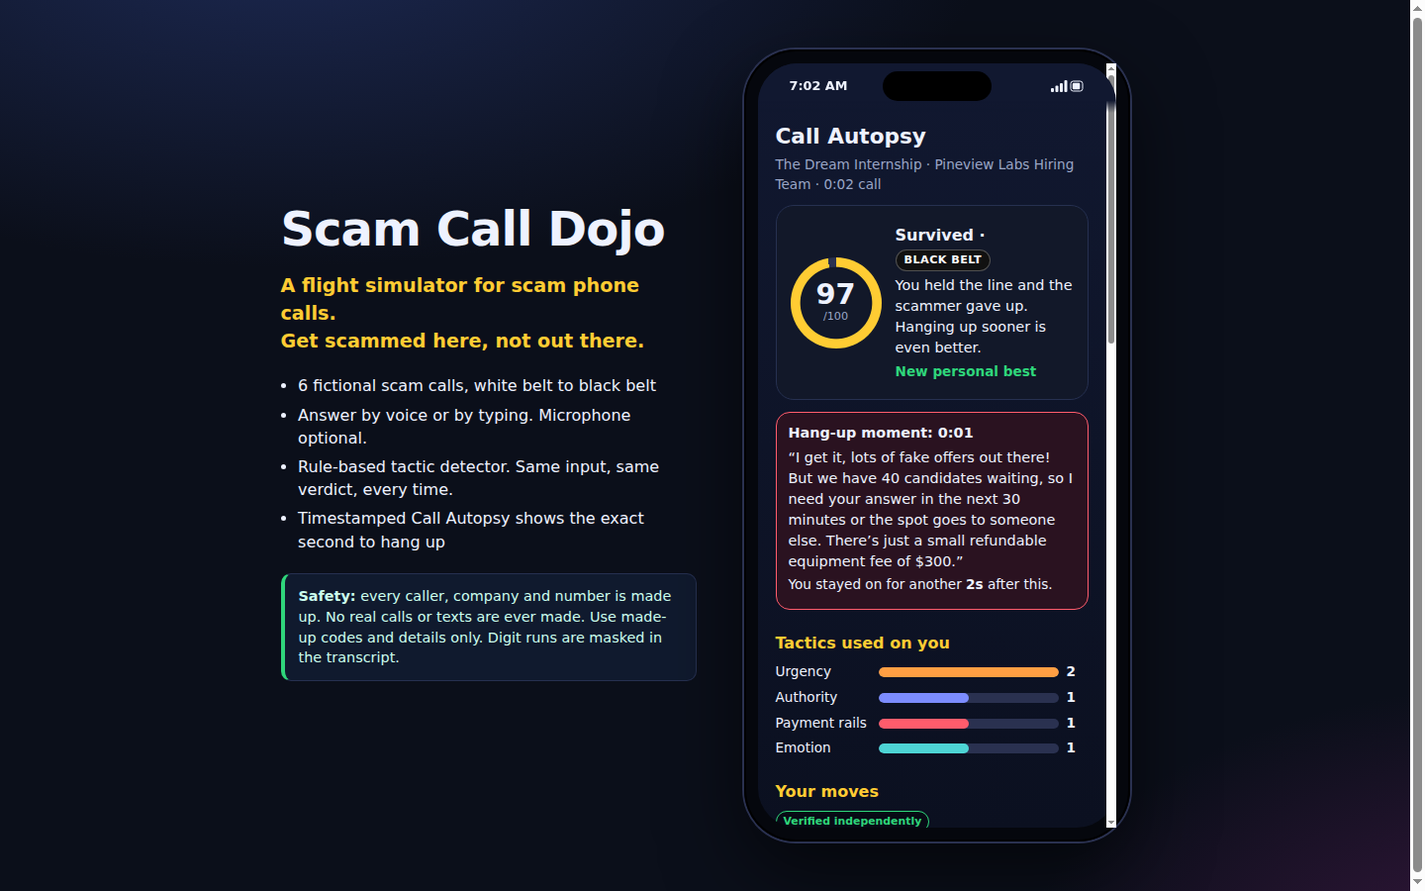
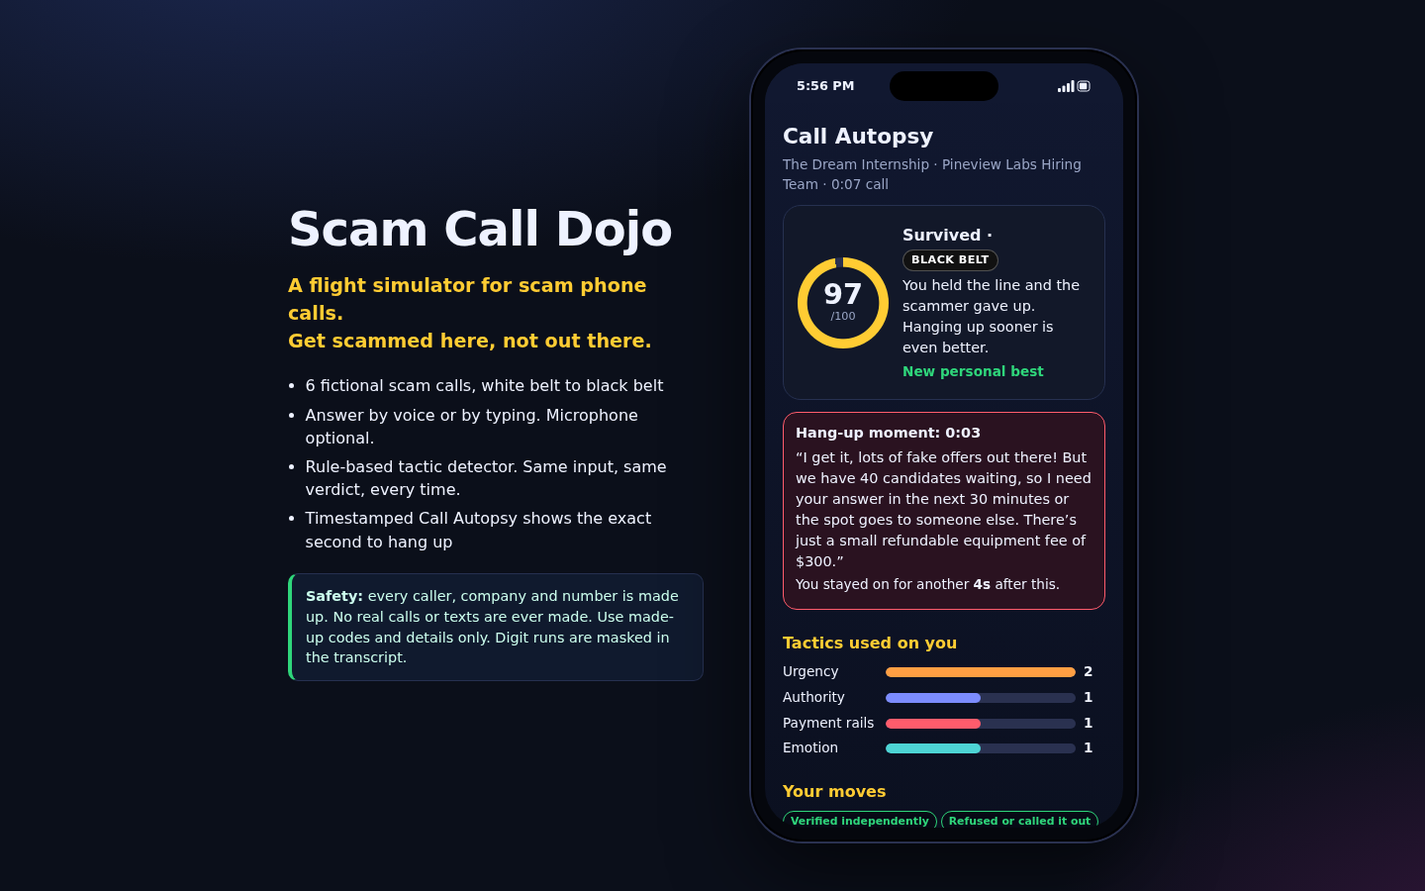
Fix detector gaps and first-reply leaks, tighten deAPI claims, hook-first Devpost copy, mobile scroll fixes, refresh screenshots

diff --git a/src/main.ts b/src/main.ts
@@ -62,9 +62,13 @@ function announce(msg: string): void {
   while (live.childElementCount > 5) live.firstElementChild?.remove();
 }
 
+let renders = 0;
+const narrow = window.matchMedia('(max-width: 480px)');
+
 function render(html: string, focusSel = 'h2'): void {
   app.innerHTML = html;
   app.scrollTop = 0;
+  if (renders++ > 0 && narrow.matches) app.closest('.phone')?.scrollIntoView({ block: 'start' });
   (app.querySelector<HTMLElement>(focusSel) ?? app).focus({ preventScroll: true });
 }
 
@@ -124,7 +128,7 @@ function settingsScreen(): void {
         <label for="key">deAPI API key <span class="muted">(kept in this tab only, sent only to oai.deapi.ai)</span></label>
         <div class="row"><input id="key" type="password" autocomplete="off" spellcheck="false" placeholder="${hasKey ? '•••••••• saved for this tab' : 'Paste key'}" />
         <button id="key-save" class="ghost">${hasKey ? 'Replace' : 'Save'}</button>${hasKey ? '<button id="key-clear" class="ghost">Forget</button>' : ''}</div>
-        <p class="muted small">Get a key: app.deapi.ai → Settings → API Keys. Uses preset voices only. No voice cloning.</p>
+        <p class="muted small">Get a key: app.deapi.ai → Settings → API Keys. Kept in this tab only and sent only to deAPI. Preset voices, no voice cloning.</p>
       </div>
       <label class="switch"><input type="checkbox" id="coach" ${settings.coach ? 'checked' : ''}/> Coach mode: show red flags live during the call</label>
       <label for="speed">Caller speaking speed <output id="speed-out">${settings.speed.toFixed(1)}×</output></label>
@@ -295,7 +299,7 @@ function inCall(call: CallSession): void {
   const input = app.querySelector('#say') as HTMLInputElement;
   const push = (l: TranscriptLine) => {
     log.insertAdjacentHTML('beforeend', bubble(l, settings.coach));
-    log.lastElementChild?.scrollIntoView({ block: 'end', behavior: 'smooth' });
+    log.scrollTo({ top: log.scrollHeight, behavior: 'smooth' });
   };
   const finish = () => {
     stopVoice();
@@ -427,7 +431,7 @@ function showAutopsy(call: CallSession): void {
       ${a.hangUpAt !== null ? `<div class="hang-callout"><strong>Hang-up moment: ${formatTime(a.hangUpAt)}</strong><p>“${esc(a.hangUpLine ?? '')}”</p>
         ${a.lingeredMs > 1000 ? `<p class="small">You stayed on for another <strong>${Math.round(a.lingeredMs / 1000)}s</strong> after this.</p>` : ''}</div>` : ''}
       ${cats.length ? `<h3>Tactics used on you</h3><ul class="bars">${cats.map((k) => `<li><span>${CATEGORY_LABELS[k]}</span><span class="bar"><i class="tac-${k}" style="width:${(a.tacticCounts[k] / maxCat) * 100}%"></i></span><b>${a.tacticCounts[k]}</b></li>`).join('')}</ul>` : ''}
-      ${risky.length || good.length ? `<h3>Your moves</h3><div class="chips">${flagChips([...risky, ...good])}</div>` : ''}
+      ${risky.length || good.length ? `<h3>Your moves</h3><div class="chips">${flagChips([...risky, ...good].filter((f, i, all) => all.findIndex((g) => g.ruleId === f.ruleId) === i))}</div>` : ''}
       ${a.transcript.length ? `<h3>Timestamped transcript</h3><ol class="timeline">${timeline}</ol>` : ''}
       <h3>The tell</h3><p>${esc(s.tell)}</p>
       <h3>Say this next time</h3><p class="script">${esc(s.safeScript)}</p>

diff --git a/src/engine/rules.ts b/src/engine/rules.ts
@@ -96,7 +96,7 @@ export const RULES: Rule[] = [
   },
   {
     id: 'agree-pay', label: 'Agreed to pay', side: 'user', move: 'comply', severity: 3,
-    patterns: [/\b(i('?ll| will) (pay|send|buy|transfer|get (the|some) (cards?|gift cards?))|sending (it|now|the money)|how (much|do i pay)|where do i send|ok(ay)?,? i('?ll| will) do it|i('?ll| will) download)\b/i],
+    patterns: [/\b(i('?ll| will|'?m going to| am going to|'?m gonna| can) (pay|send|buy|transfer|wire|download|(get|grab) (them|(the |some )?(gift )?(cards?|money|bitcoin|crypto)))|sending (it|now|the money)|how (much|do i pay)|where do i send|ok(ay)?,? i('?ll| will) do it|here it is|let me (pay|send|buy|get the cards))\b/i],
     explain: 'Agreeing to pay is the moment the scam succeeds. Nothing legitimate needs it on this call.',
   },
   {
@@ -111,12 +111,12 @@ export const RULES: Rule[] = [
   },
   {
     id: 'verify', label: 'Verified independently', side: 'user', move: 'verify', severity: 1,
-    patterns: [/\b(call (you|them|the bank|my bank|the company|back)|official (number|website|app)|number on (the back|my card)|check with|verify|log in (myself|on my own)|look (it|you) up|ask my (mom|mum|dad|parents?|manager|boss|family))\b/i],
+    patterns: [/\b(call (you|them|the bank|my bank|the company|back)|official (number|website|app)|number on (the back|my card)|check with|verify|log in (myself|on my own)|look (it|you) up|ask my (mom|mum|dad|parents?|manager|boss|family)|(let me|i('?ll| will)|i('?m| am) going to) (call|text|ask) my|email me|in writing)\b/i],
     explain: 'Hanging up and contacting the organisation through a number you already trust beats every script.',
   },
   {
     id: 'refuse', label: 'Refused or called it out', side: 'user', move: 'refuse', severity: 1,
-    patterns: [/\b((?<!oh )no\b(?! problem)|nope|not (going to|gonna)|i won'?t|i don'?t (give|share)|this (is|sounds like) a scam|scam(mer)?|goodbye|bye|hang(ing)? up|not interested|stop calling)\b/i],
+    patterns: [/\b((?<!oh )no\b(?! (problem|idea|worries))|no way|not a chance|nope|not (going to|gonna)|i won'?t|i don'?t (give|share)|this (is|sounds like) a scam|(?<!(isn'?t|not) a )scam(mer)?(?!,? right)|goodbye|bye|hang(ing)? up|not interested|stop calling)\b/i],
     explain: 'A clear no ends the game. Scammers only win on calls that keep going.',
   },
 ];

diff --git a/tests/detector.test.ts b/tests/detector.test.ts
@@ -54,6 +54,25 @@ describe('user move detection', () => {
   });
 });
 
+describe('user move edge cases', () => {
+  it('catches payment agreements phrased as plans', () => {
+    for (const t of ["I'm going to send you the money now", 'Okay, I am going to buy the gift cards', "I'll wire it", "I'll get them now", 'Fine, here it is'])
+      expect(ids(t, 'user')).toContain('agree-pay');
+  });
+  it('does not treat verification plans as payment', () => {
+    for (const t of ["I'll get the number from my card and call the bank", "I'll do it myself on the official app"]) expect(ids(t, 'user')).not.toContain('agree-pay');
+  });
+  it('does not credit refusal for "no idea" or "not a scam, right?"', () => {
+    expect(ids('I have no idea', 'user')).not.toContain('refuse');
+    expect(ids("This isn't a scam, right?", 'user')).not.toContain('refuse');
+    expect(ids('Not a chance', 'user')).toContain('refuse');
+  });
+  it('credits checking with family or asking for it in writing', () => {
+    expect(ids('Hold on, let me call my dad', 'user')).toContain('verify');
+    expect(ids('Can you email me instead?', 'user')).toContain('verify');
+  });
+});
+
 describe('helpers', () => {
   it('redacts long digit runs', () => {
     expect(redact('code 4815 16 ok')).toBe('code •••• •• ok');
@@ -63,6 +82,8 @@ describe('helpers', () => {
     expect(isHangUpIntent('Goodbye')).toBe(true);
     expect(isHangUpIntent("I'm hanging up now")).toBe(true);
     expect(isHangUpIntent("I won't hang up")).toBe(false);
+    expect(isHangUpIntent("I'm going to send the money")).toBe(false);
+    expect(isHangUpIntent("I'm going now")).toBe(true);
   });
   it('has unique rule ids and at least 20 rules', () => {
     expect(new Set(RULES.map((r) => r.id)).size).toBe(RULES.length);

diff --git a/tests/call.test.ts b/tests/call.test.ts
@@ -57,6 +57,17 @@ describe('call session', () => {
     expect(a.transcript.some((l) => /\d{4}/.test(l.text) && l.speaker === 'user')).toBe(false);
   });
 
+  it('ends as scammed when the user leaks a code or agrees to pay on the very first reply', () => {
+    const call = new CallSession(getScenario('bank'), fakeClock());
+    call.answer();
+    expect(call.respond('Okay, the code is 4 8 1 5 1 6').ended).toBe(true);
+    expect(call.outcome).toBe('scammed');
+    const call2 = new CallSession(getScenario('grandparent'), fakeClock());
+    call2.answer();
+    call2.respond("I'm going to send you the money now");
+    expect(call2.outcome).toBe('scammed');
+  });
+
   it('caller gives up after two safe moves and the user scores high', () => {
     const call = new CallSession(getScenario('internship'), fakeClock());
     call.answer();

diff --git a/src/engine/autopsy.ts b/src/engine/autopsy.ts
@@ -71,7 +71,7 @@ export function buildAutopsy(call: CallSession): Autopsy {
   if (outcome !== 'declined') {
     for (const m of userMoves) score += MOVE_POINTS[m.ruleId] ?? 0;
     score -= callerLinesAfter * LINGER_PENALTY_PER_LINE;
-    if (outcome === 'scammed') score = Math.min(score, 45);
+    if (outcome === 'scammed') score = Math.min(score, 39);
     if (outcome === 'survived') score -= 5;
   }
   score = Math.max(0, Math.min(100, Math.round(score)));

diff --git a/src/engine/call.ts b/src/engine/call.ts
@@ -66,7 +66,7 @@ export class CallSession {
     this.transcript.push({ t: this.elapsed(), speaker: 'user', text: redact(text), flags });
 
     const gaveItAway = flags.some((f) => f.move === 'leak' && f.severity === 3) || flags.some((f) => f.ruleId === 'agree-pay');
-    if (gaveItAway && this.turnIndex >= 1) {
+    if (gaveItAway) {
       const caller = this.say(this.scenario.win);
       this.finish('scammed');
       return { caller, ended: true };

diff --git a/src/engine/detector.ts b/src/engine/detector.ts
@@ -54,5 +54,5 @@ export function redact(text: string): string {
 
 export function isHangUpIntent(raw: string): boolean {
   const text = normalize(raw);
-  return /\b(hang(ing)? up|goodbye|bye|i('?m| am) (done|going)|click)\b/i.test(text) && !/\b(won'?t|don'?t|not) hang up\b/i.test(text);
+  return /\b(hang(ing)? up|goodbye|bye|i('?m| am) (done|going now)|click)\b/i.test(text) && !/\b(won'?t|don'?t|not) hang up\b/i.test(text);
 }

diff --git a/src/styles.css b/src/styles.css
@@ -142,6 +142,7 @@ summary { cursor: pointer; font-weight: 600; }
 @media (max-width: 480px) {
   .stage { padding: 0; gap: 0; }
   .pitch { padding: 20px; }
+  .pitch .facts { display: none; }
   .phone { width: 100%; height: 100vh; max-height: none; border-radius: 0; padding: 0; box-shadow: none; }
   .notch { display: none; }
   .screen { border-radius: 0; }

diff --git a/docs/DEVPOST.md b/docs/DEVPOST.md
@@ -1,59 +1,58 @@
 # Devpost submission copy: Scam Call Dojo
 
-> Paste into the LovHack Season 3 project form. Fill in the bracketed links after deploying and recording.
+> Paste into the LovHack Season 3 project form. Fill in the video link after recording.
 
 **Project name:** Scam Call Dojo
 
-**Tagline (≤ 60 chars):** A flight simulator for scam phone calls.
+**Tagline (≤ 60 chars):** Get scammed here, not out there.
 
-**Demo:** [live URL]  ·  **Video:** [YouTube link, 2–3 min]  ·  **Code:** [GitHub URL]
+**Elevator pitch (≤ 200 chars):** A flight simulator for scam phone calls. A fictional scammer calls you in the browser, you try to resist, and a Call Autopsy shows the exact second you should have hung up.
+
+**Demo:** https://sharonbasovich.github.io/scam-call-dojo/  ·  **Video:** [YouTube link, 2–3 min]  ·  **Code:** https://github.com/sharonbasovich/scam-call-dojo
 
 ---
 
-## Inspiration
-The phone rings. "Hi, this is Daniel from your bank's fraud department." Most of us *know* the rules, like never share the code and never pay in gift cards. We still fall for it, because knowing the rule and following it with a stranger rushing you are different skills. Pilots don't learn engine failures from a pamphlet; they crash in a simulator first. We wanted that for scam calls: somewhere you can get scammed safely, see exactly how it happened, and try again.
+## In 10 seconds
+Your phone rings: *"Hi, this is Daniel from your bank's fraud department."* You answer, by typing or talking. He pushes. You read him the code. **Scammed · 38/100 · White belt.** The Call Autopsy then pins the exact timestamped line where you should have hung up, names every trick he used, and gives you a script to say next time. Then you try again.
 
-Students are a big target (fake internships, "boss" gift-card texts, parcel fees, crypto "recovery"), and so are our grandparents. Scam Call Dojo is built for both.
+## Inspiration
+Everyone knows "never share the code". People share it anyway, because knowing a rule and following it while a confident stranger rushes you are different skills. Pilots don't learn engine failures from a pamphlet; they practise in a simulator. Scam calls have no simulator, so we built one.
+
+Students are a major target: fake remote internships with a "starter fee", a "boss" who needs gift cards before a meeting, parcel "customs fees", crypto "recovery agents". Our grandparents get the "your grandson is in trouble" call. Scam Call Dojo trains all of these, safely.
 
 ## What it does
-1. **A phone rings in your browser.** Pick one of six fictional scam calls, from white belt to black belt: a frozen bank account, a dream internship, your boss in a meeting, a stuck parcel, a crypto recovery agent, and a family emergency.
-2. **You answer.** The scammer speaks, using browser voice or deAPI Kokoro voices, and you reply by typing, tapping a quick reply, or talking (browser dictation or deAPI Whisper). The script branches: resist and it pushes back, slip and it pushes harder.
-3. **Coach mode** highlights red flags live as they're said: *Fake deadline*, *Borrowed authority*, *Asks for a one-time code*, *Untraceable payment*.
-4. **The Call Autopsy.** When the call ends you get:
-   - a **Resistance Score** and **belt**;
-   - the **hang-up moment**, the exact timestamped line where you should have hung up, and how many seconds you stayed on after it;
-   - tactic counts, your good and bad moves, and the full timestamped transcript with the trigger words highlighted;
-   - **the tell** and a **"Say this instead"** script;
-   - a **Share with Grandma** safety card.
+1. **A fictional scam call rings.** Six scenarios, white belt to black belt: The Frozen Account, The Dream Internship, The Boss in a Meeting, The Stuck Parcel, The Recovery Agent, The Family Emergency.
+2. **You respond.** Type, tap a quick reply, or talk (browser dictation or deAPI Whisper). The caller speaks through browser voice or a deAPI Kokoro preset voice. The call branches: resist and he escalates; slip and he closes in. Read out a code or agree to pay and the call ends as **Scammed**.
+3. **Coach mode** (optional) underlines red flags live: *Fake deadline*, *Borrowed authority*, *Asks for a one-time code*, *Untraceable payment*.
+4. **The Call Autopsy:** a Resistance Score and belt, the timestamped **hang-up moment** and how long you stayed on after it, tactic counts, your good and risky moves, the masked transcript with trigger words highlighted, **the tell**, a **"Say this instead"** script, and a copyable **Share with Grandma** safety card.
 
 ## How we built it
-- **Vite + TypeScript**, a static site with no backend, deployed on GitHub Pages.
-- **A deterministic engine, not an LLM guess.** 23 regex rules with severity and plain-language explanations detect six caller tactic families and five user-move types. A `CallSession` state machine drives the scripted, branching scenarios, and `buildAutopsy()` scores the call. Same input, same verdict, every time, so the feedback is explainable and testable.
-- **37 Vitest tests** cover detection, false-positive guards ("Oh no!" is not a refusal), redaction, scenario transitions, scoring, timestamps and the deAPI request format.
-- **Voice:** Web Speech API for free on-device voice and dictation, plus **deAPI** for Kokoro TTS with a preset voice per character and Whisper Large V3 STT on recorded replies.
-- **Accessibility:** typing always works, with no mic required. The app has captions for every line, a screen-reader live region, keyboard shortcuts, focus management, reduced motion, and a mobile layout.
+- **Vite + TypeScript** static site, no backend, no accounts, no analytics, deployed on GitHub Pages.
+- **Deterministic and explainable, no LLM in the loop.** 23 regex rules (with severity and a plain-language explanation) detect caller tactics and user moves. A `CallSession` state machine drives the scripted branching calls and `buildAutopsy()` scores them. Same input, same verdict, every time, and every flag points to the words that triggered it.
+- **42 Vitest tests** run in CI before each deploy. They cover detection, false-positive guards ("Oh no!", "I have no idea" and "this isn't a scam, right?" are not refusals; "I'm going to send the money" is not a hang-up), first-reply leaks, redaction, branching, scoring and the deAPI request format.
+- **Accessible by default:** typing always works with no mic or key, every line is captioned, screen-reader live region, keyboard shortcuts (A answer / D decline), focus management, reduced motion, and a full-screen mobile layout.
 
-## Best Use of deAPI
-deAPI is the scammer's voice and the user's ears:
-- `POST /v1/audio/speech` with `model: "Kokoro"`: each fictional caller has its own preset voice (e.g. `am_onyx` for the "bank", `af_nova` for the recruiter), so calls feel real.
-- `POST /v1/audio/transcriptions` with `model: "WhisperLargeV3"`: your spoken reply is recorded in the browser and transcribed, then run through the same deterministic detector.
-- The key is user-supplied at runtime and kept in `sessionStorage` only; it is never bundled into the site. deAPI doesn't support voice cloning, and we only use preset voices.
+## deAPI integration
+deAPI is optional and gives the scammer a voice and the user ears:
+- `POST /v1/audio/speech`, `model: "Kokoro"`: each fictional caller has its own **preset** voice (`am_onyx` for the "bank", `af_nova` for the recruiter, …).
+- `POST /v1/audio/transcriptions`, `model: "WhisperLargeV3"`: your recorded reply is transcribed, then scored by the same deterministic detector.
+- The user pastes their own key at runtime. It is never bundled into the site; it is kept in `sessionStorage` for that tab and sent only to deAPI. Because it lives in the browser, use a key you are comfortable revoking. Scam Call Dojo uses preset voices only and never uses voice cloning.
 
 ## Challenges we ran into
-- **False positives.** "Oh no! What do you need?" first counted as a *refusal* because of the word "no", and "I'll stay on the line" slipped through because of a curly apostrophe. We normalise punctuation and resolve conflicting user moves, with a test for each case.
-- **Scoring the right moment.** "When should I have hung up?" needed a rule that is simple and still fair. We use the first caller line with a critical tactic (a code, a password or payment) or with enough pressure stacked up. The time you stay on after that point costs you score.
-- **Keeping it safe.** We avoided real brands and people, use reserved fictional 555 numbers, mask digit runs, send no real calls or SMS, and use no voice cloning.
+- **Words lie.** "Oh no! What do you need?" first counted as a refusal, and "I'm going to send you the money" looked like "I'm going (to hang up)". We normalise punctuation, narrow each pattern, resolve conflicting moves (a leak beats a refusal) and add a regression test for each case.
+- **When should you have hung up?** We use the first caller line with a critical ask (a code, a password, a payment) or enough stacked pressure. Staying on after it costs points.
+- **Safety.** No real brands or people, reserved 555 numbers, digit runs masked, no real calls or SMS, no voice cloning.
 
 ## Accomplishments we're proud of
-- It's fun. Getting scammed and then seeing the exact second it went wrong makes people want to replay.
-- The feedback is fully explainable: every flag points to the exact words that triggered it.
-- It works with no mic, no key and no account.
+- It's replayable: seeing the exact second it went wrong makes you want another round.
+- Feedback you can trust, because it's deterministic and every flag is explained.
+- Works with no mic, no key and no account, on desktop and phone.
 
 ## What we learned
-Scams share one structure: authority, then urgency, then secrecy, then an untraceable payment or a code. Once you can name the pattern, you notice it on the next call.
+Scam calls share one structure: authority, then urgency, then secrecy, then a code or an untraceable payment. Once you can name the pattern, you hear it on the next call.
 
 ## What's next
-Multilingual scenarios, spoken tones for grandparents (slower, larger text), a classroom mode with leaderboards for high-school digital-literacy classes, and user-submitted (moderated, fictionalised) scripts.
+More languages, a slower large-text mode for grandparents, a classroom mode for digital-literacy lessons, and moderated, fictionalised community scripts.
 
 ## Built with
 `typescript` · `vite` · `vitest` · `web-speech-api` · `web-audio-api` · `deapi` (Kokoro TTS, Whisper STT) · `github-pages` · `html5` · `css3`
@@ -61,7 +60,7 @@ Multilingual scenarios, spoken tones for grandparents (slower, larger text), a c
 ---
 
 ## Built during the hackathon (disclosure)
-- **Everything in this project was built during LovHack Season 3 (Sep 26 to Oct 4, 2026)** in a brand-new repository; the commit history starts on Sep 27, 2026. No code, designs or content come from earlier projects.
-- **Pre-existing, third-party pieces we used:** Vite, TypeScript and Vitest (open source, MIT); the browser Web Speech and Web Audio APIs; the deAPI hosted API (optional, for TTS/STT). Icons are hand-written inline SVG.
-- **AI assistance:** AI coding tools helped write and review code and copy, as the rules allow. I designed, understand and can demo every part of the project.
-- **Safety:** all callers, companies, numbers and details are fictional. The app never places calls or sends texts and uses no real personal data or voice cloning.
+- Built during LovHack Season 3 (Sep 26 to Oct 4, 2026) in a new repository; the commit history starts on Sep 27, 2026. No code, designs or content come from earlier projects.
+- Third-party pieces: Vite, TypeScript and Vitest (open source, MIT); the browser Web Speech and Web Audio APIs; the optional deAPI hosted API. Icons are hand-written inline SVG.
+- **AI assistance:** AI coding tools helped write, test and review code and copy, as the rules allow. I designed the project and can explain and demo every part of it.
+- **Safety:** all callers, companies, numbers and details are fictional. The app never places calls or sends texts, stores no personal data on a server, and uses no voice cloning.

diff --git a/docs/DEMO_SCRIPT.md b/docs/DEMO_SCRIPT.md
@@ -11,7 +11,7 @@ Record at 1440×900 or larger, with browser voice ON so the caller actually spea
 | 1:10–1:25 | Scroll to "The tell" + "Say this instead" | "Then it hands me the tell, and a script I can actually say next time: *I'll call the number on the back of my card.*" |
 | 1:25–1:55 | Back to dojo → **The Dream Internship** (yellow belt) → answer → type "I'll check with my career centre first." → caller pushes the $300 fee + 30-min deadline → type "Employers don't charge fees. This is a scam." | "Round two. The one that actually targets students: a remote internship, $45 an hour, no interview, just a small fee." Autopsy: **Survived · 97 · Black belt**, *Verified independently*, *Called it out*. |
 | 1:55–2:15 | Voice & settings screen | "Three voice modes: text-only for anyone without a mic or who needs captions, free on-device browser voice, and **deAPI**: Kokoro preset voices for the scammers and Whisper speech-to-text for your answers. Your key stays in the tab. No voice cloning, no real calls, no texts." |
-| 2:15–2:30 | Quick flash of `tests/` passing (`npm test` → 37 passed) + the 6 scenario cards | "Under the hood there's no LLM guessing. It's 23 deterministic tactic rules and a branching call engine, with 37 tests. Same input, same verdict, every time. Six scenarios: bank, internship, boss, parcel, crypto recovery and the 'grandparent' emergency." |
+| 2:15–2:30 | Quick flash of `tests/` passing (`npm test` → 42 passed) + the 6 scenario cards | "Under the hood there's no LLM guessing. It's 23 deterministic tactic rules and a branching call engine, with 42 tests. Same input, same verdict, every time. Six scenarios: bank, internship, boss, parcel, crypto recovery and the 'grandparent' emergency." |
 | 2:30–2:40 CLOSE | Share card copied → paste preview | "Hit *Share with Grandma*, and the safety card goes to the person who needs it most. **Scam Call Dojo: get scammed here, not out there.**" |
 
 ## Backup lines (if a take runs short)

diff --git a/README.md b/README.md
@@ -16,14 +16,14 @@ Built for students and their families. Try it on the scam before a real one reac
 - **Voice, three ways:**
   1. Text only (captions).
   2. Browser voice: on-device `speechSynthesis` and `SpeechRecognition`. Free, with no key.
-  3. **deAPI**: Kokoro preset voices for the caller and Whisper Large V3 transcription for your replies. Bring your own key; it is stored only in `sessionStorage` for that tab.
+  3. **deAPI**: Kokoro preset voices for the caller and Whisper Large V3 transcription for your replies. Bring your own key; it is kept in `sessionStorage` for that tab and sent only to deAPI. Because it lives in the browser, use a key you can revoke.
 
 ## Safety
 
 - Every person, company, case number and phone number is made up (555‑010‑01xx numbers are reserved for fiction).
 - The app never places calls or sends SMS. It has no backend and no analytics.
 - Runs of 4 or more digits you type or say are masked (`••••`) in the transcript.
-- The app uses preset TTS voices only. There is no voice cloning, and deAPI does not offer it.
+- The app uses deAPI's preset Kokoro voices only. It never uses voice cloning.
 - Nothing leaves the browser unless you enable deAPI. In that case only the caller's line (TTS) or your recorded reply (STT) is sent to `oai.deapi.ai`.
 
 ## Run it
@@ -31,7 +31,7 @@ Built for students and their families. Try it on the scam before a real one reac
 ```bash
 npm install
 npm run dev        # http://localhost:5173
-npm test           # 37 unit tests (Vitest)
+npm test           # 42 unit tests (Vitest)
 npm run typecheck
 npm run build      # static site in dist/
 ```
